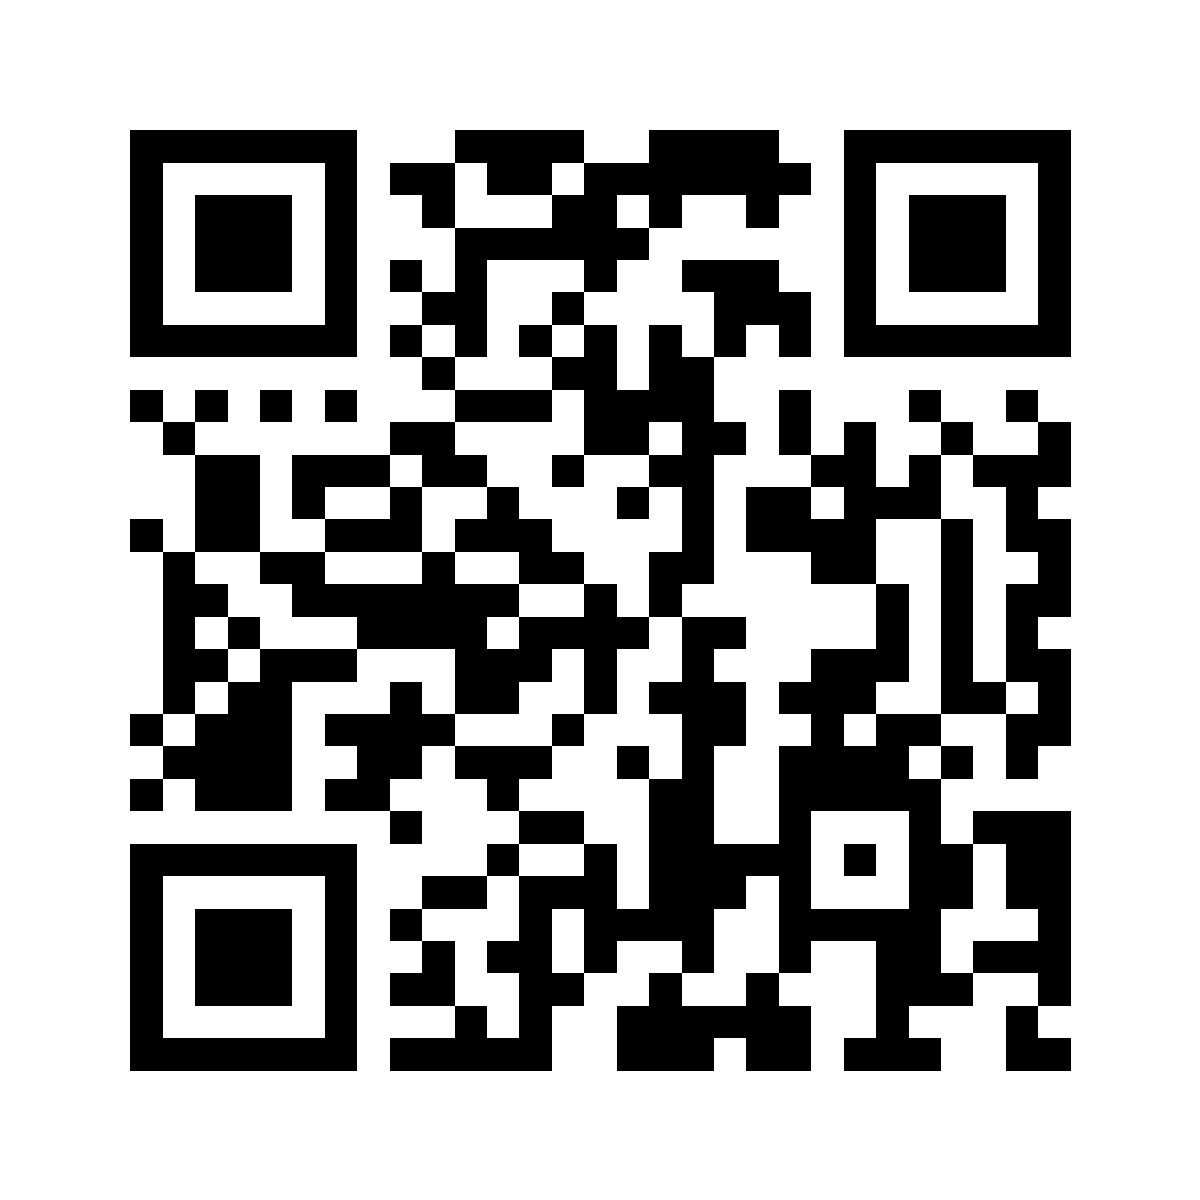
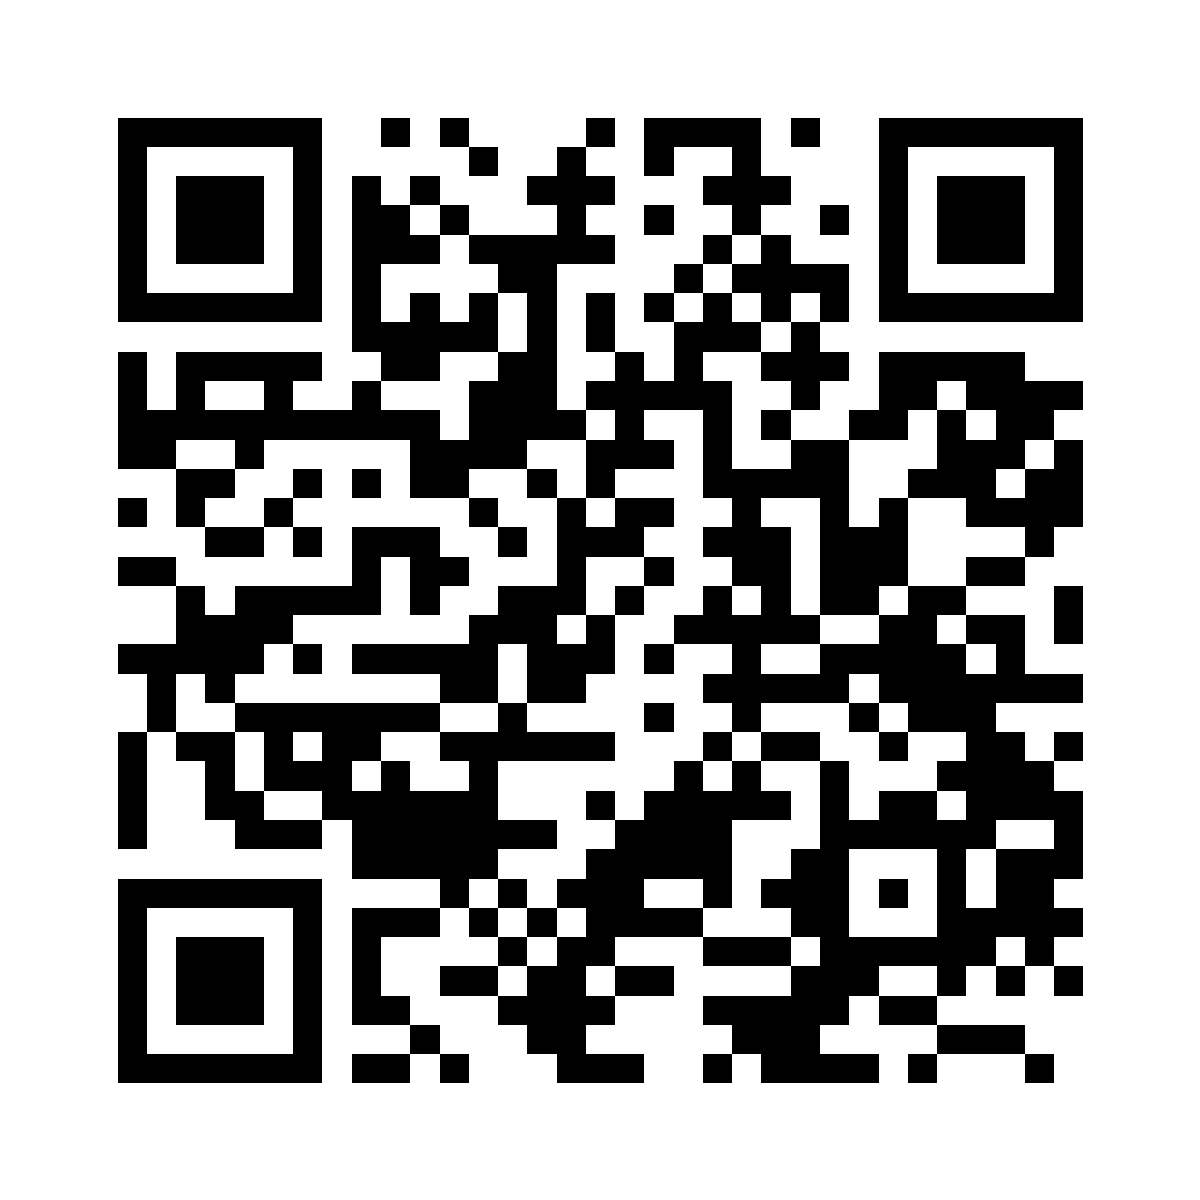
Rename site to Berkeley Student Windows

diff --git a/index.html b/index.html
@@ -3,7 +3,7 @@
   <head>
     <meta charset="UTF-8" />
     <meta name="viewport" content="width=device-width, initial-scale=1.0" />
-    <title>Dash's Windows | Berkeley Window Cleaning</title>
+    <title>Berkeley Student Windows | Berkeley Window Cleaning</title>
     <meta
       name="description"
       content="$75 first-floor exterior window cleaning in Berkeley from a local Berkeley student."
@@ -14,8 +14,8 @@
     <main>
       <section class="hero" id="top">
         <div class="hero-copy fade-in">
-          <p class="eyebrow">Local Berkeley Student</p>
-          <h1>Dash's Windows</h1>
+          <h1>Berkeley Student Windows</h1>
+          <p class="brand-byline">By Dash</p>
           <div class="price-lockup">
             <span class="price">$75</span>
             <span class="price-label">Cleaning</span>
@@ -26,9 +26,9 @@
           </div>
         </div>
 
-        <div class="service-card fade-in" aria-label="Dash's Windows service card">
+        <div class="service-card fade-in" aria-label="Berkeley Student Windows service card">
           <div class="logo-display">
-            <svg class="hero-logo" viewBox="0 0 260 180" role="img" aria-label="Dash's Windows squeegee logo">
+            <svg class="hero-logo" viewBox="0 0 260 180" role="img" aria-label="Berkeley Student Windows squeegee logo">
               <g class="logo-sparkles">
                 <path d="M186 16 L197 48 L229 59 L197 70 L186 102 L175 70 L143 59 L175 48 Z" />
                 <path d="M224 78 L232 99 L253 107 L232 115 L224 136 L216 115 L195 107 L216 99 Z" />
@@ -69,10 +69,10 @@
           action="https://formsubmit.co/sanchezjacksondashiell@gmail.com"
           method="POST"
         >
-          <input type="hidden" name="_subject" value="New Dash's Windows time request" />
+          <input type="hidden" name="_subject" value="New Berkeley Student Windows time request" />
           <input type="hidden" name="_captcha" value="false" />
           <input type="hidden" name="_template" value="table" />
-          <input type="hidden" name="_next" value="https://dashwindows-com.vercel.app/?request=sent" />
+          <input type="hidden" name="_next" value="https://berkeley-student-windows.vercel.app/?request=sent" />
           <input type="hidden" name="selected_time" id="selectedTime" />
           <input type="hidden" name="request_summary" id="requestSummary" />
 
@@ -116,7 +116,7 @@
     </main>
 
     <footer>
-      <strong>Dash's Windows</strong>
+      <strong>Berkeley Student Windows</strong>
       <span>Berkeley</span>
       <span>Text or call: (510) 559-0578</span>
     </footer>

diff --git a/styles.css b/styles.css
@@ -82,6 +82,13 @@ h1 {
   letter-spacing: 0;
 }
 
+.brand-byline {
+  margin: -6px 0 18px;
+  color: var(--ink-soft);
+  font-size: clamp(1.08rem, 2vw, 1.35rem);
+  font-weight: 800;
+}
+
 h2 {
   margin-bottom: 18px;
   font-size: clamp(2rem, 4.2vw, 3.4rem);
@@ -494,7 +501,11 @@ footer strong {
   }
 
   h1 {
-    font-size: clamp(3.1rem, 15vw, 5.1rem);
+    font-size: clamp(2.85rem, 13vw, 4.8rem);
+  }
+
+  .brand-byline {
+    margin-top: -4px;
   }
 
   .price-lockup {
